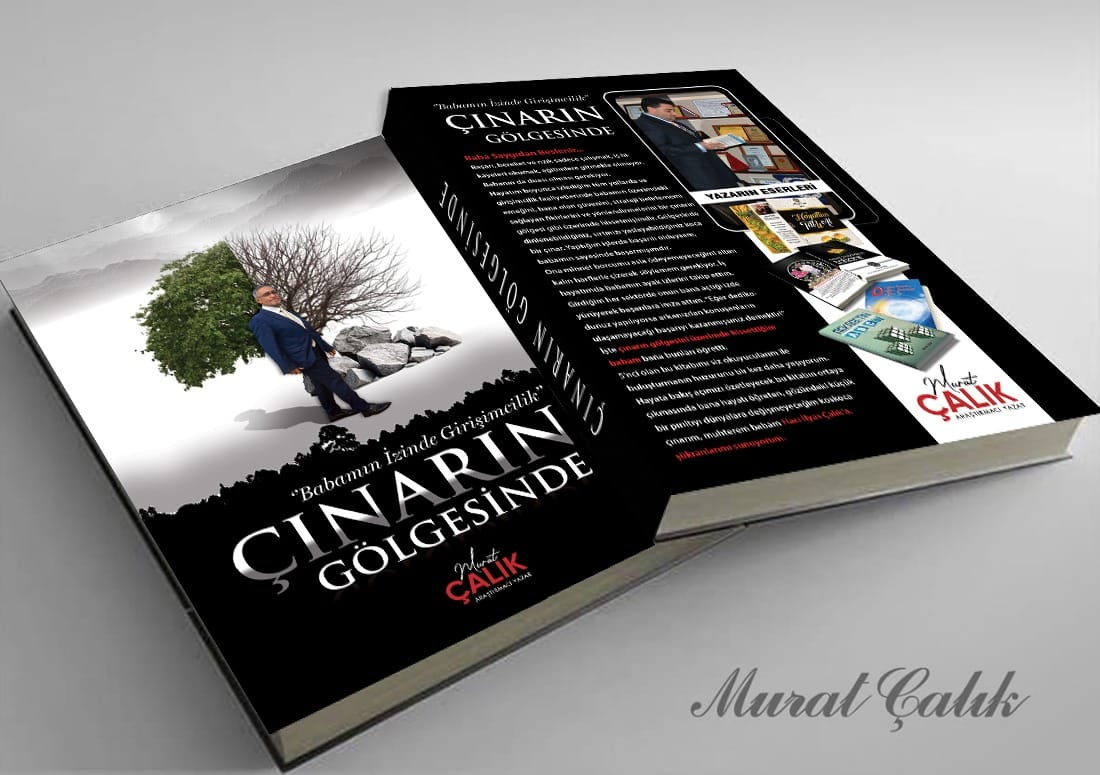
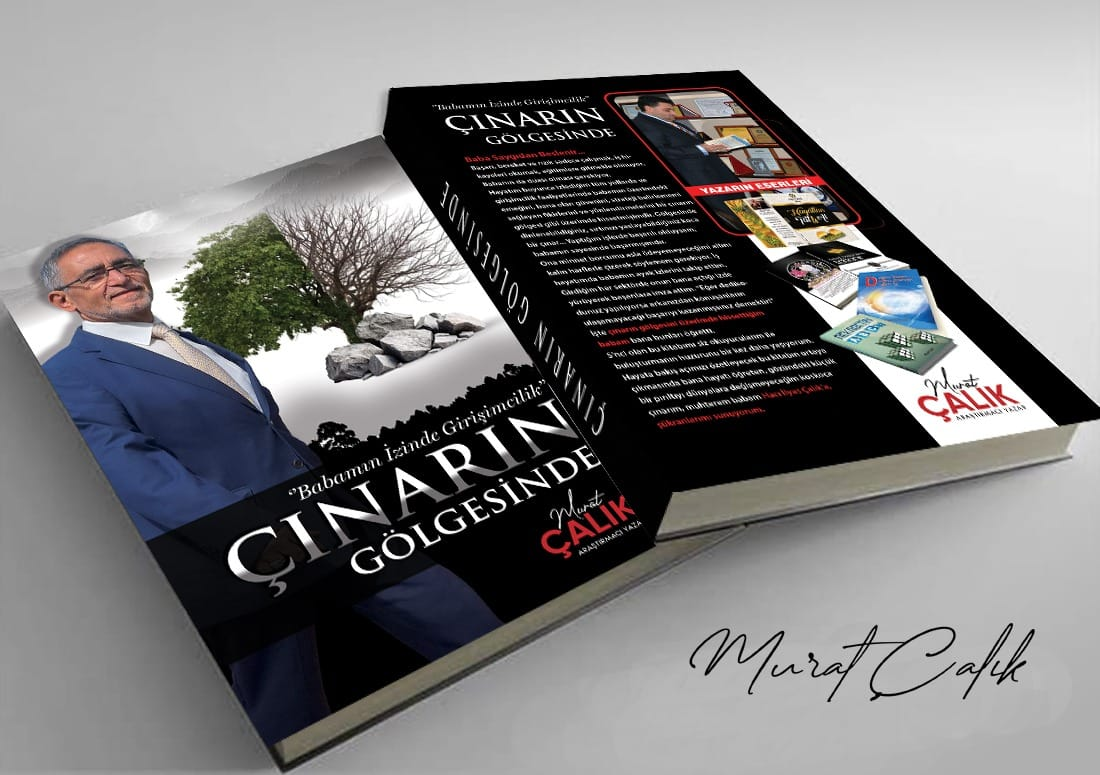
update: cinarin golgesinde book cover yupdated and also text

diff --git a/src/sections/Kurumsal.tsx b/src/sections/Kurumsal.tsx
@@ -99,7 +99,7 @@ export default function Kurumsal() {
       id: 5,
       title: "Çınarın Gölgesinde",
       summary:
-        "“Babamın izinde girişimcilik”\n\n“Baba saygıdan beslenir...” Başarı, bereket ve rızık sadece çalışmak, iş hikayeleri okumak, eğitimlere gitmekle olmuyor. Babanın da duası olması gerekiyor. Hayatım boyunca izlediğim tüm yollarda ve girişimcilik faaliyetlerinde babamın üzerimdeki emeğini, bana olan güvenini, strateji belirlememi sağlayan fikirlerini ve yönlendirmelerini bir çınarın gölgesi gibi üzerimde hissetmişimdir. Gölgesinde dinlenebildiğiniz, sırtınızı yaslayabildiğiniz koca bir çınar... Yaptığım işlerde başarılı olduysam, babamın sayesinde başarmışımdır. Ona minnet borcumu asla ödeyemeyeceğimi altını kalın harflerle çizerek söylemem gerekiyor. İş hayatımda babamın ayak izlerini takip ettim. Girdiğim her sektörde onun bana açtığı izde yürüyerek başarılara imza attım. “Eğer dedikodunuz yapılıyorsa arkanızdan konuşanların ulaşamayacağı başarıyı kazanmışsınız demektir!” İşte çınarın gölgesini üzerimde hissettiğim babam bana bunları öğretti. 5’nci olan bu kitabımı siz okuyucularım ile buluşturmanın huzurunu bir kez daha yaşıyorum. Hayata bakış açımızı özetleyecek bu kitabın ortaya çıkmasında bana hayatı öğreten, gözündeki küçük bir pırıltıyı dünyalara değişmeyeceğim koskoca çınarım, muhterem babam Hacı İlyas Çalık’a, şükranlarımı sunuyorum.",
+        "“Babamın izinde girişimcilik” “Baba saygıdan beslenir...” Bereket ve başarı; Sadece çalışmak, iş hikayeleri okumak, eğitimlere gitmekle olmuyor. Babanın da duası olması gerekiyor. Hayatım boyunca izlediğim tüm yollarda ve girişimcilik faaliyetlerinde babamın üzerimdeki emeğini, bana olan güvenini, strateji belirlememi sağlayan fikirlerini ve yönlendirmelerini bir çınarın gölgesi gibi üzerimde hissetmişimdir. Gölgesinde dinlenebildiğiniz, sırtınızı yaslayabildiğiniz koca bir çınar... Yaptığım işlerde başarılı olduysam, babamın sayesinde başarmışımdır. Ona minnet borcumu asla ödeyemeyeceğimi altını kalın harflerle çizerek söylemem gerekiyor. İş hayatımda babamın ayak izlerini takip ettim. Girdiğim her sektörde onun bana açtığı izde yürüyerek başarılara imza attım. “Eğer dedikodunuz yapılıyorsa arkanızdan konuşanların ulaşamayacağı başarıyı kazanmışsınız demektir!” İşte çınarın gölgesini üzerimde hissettiğim babam bana bunları öğretti. 5’nci olan bu kitabımı siz okuyucularım ile buluşturmanın huzurunu bir kez daha yaşıyorum. Hayata bakış açımızı özetleyecek bu kitabın ortaya çıkmasında bana hayatı öğreten, gözündeki küçük bir pırıltıyı dünyalara değişmeyeceğim koskoca çınarım, muhterem babam Hacı İlyas Çalık’a, şükranlarımı sunuyorum.",
       cover: cinarBook,
     },
   ];
